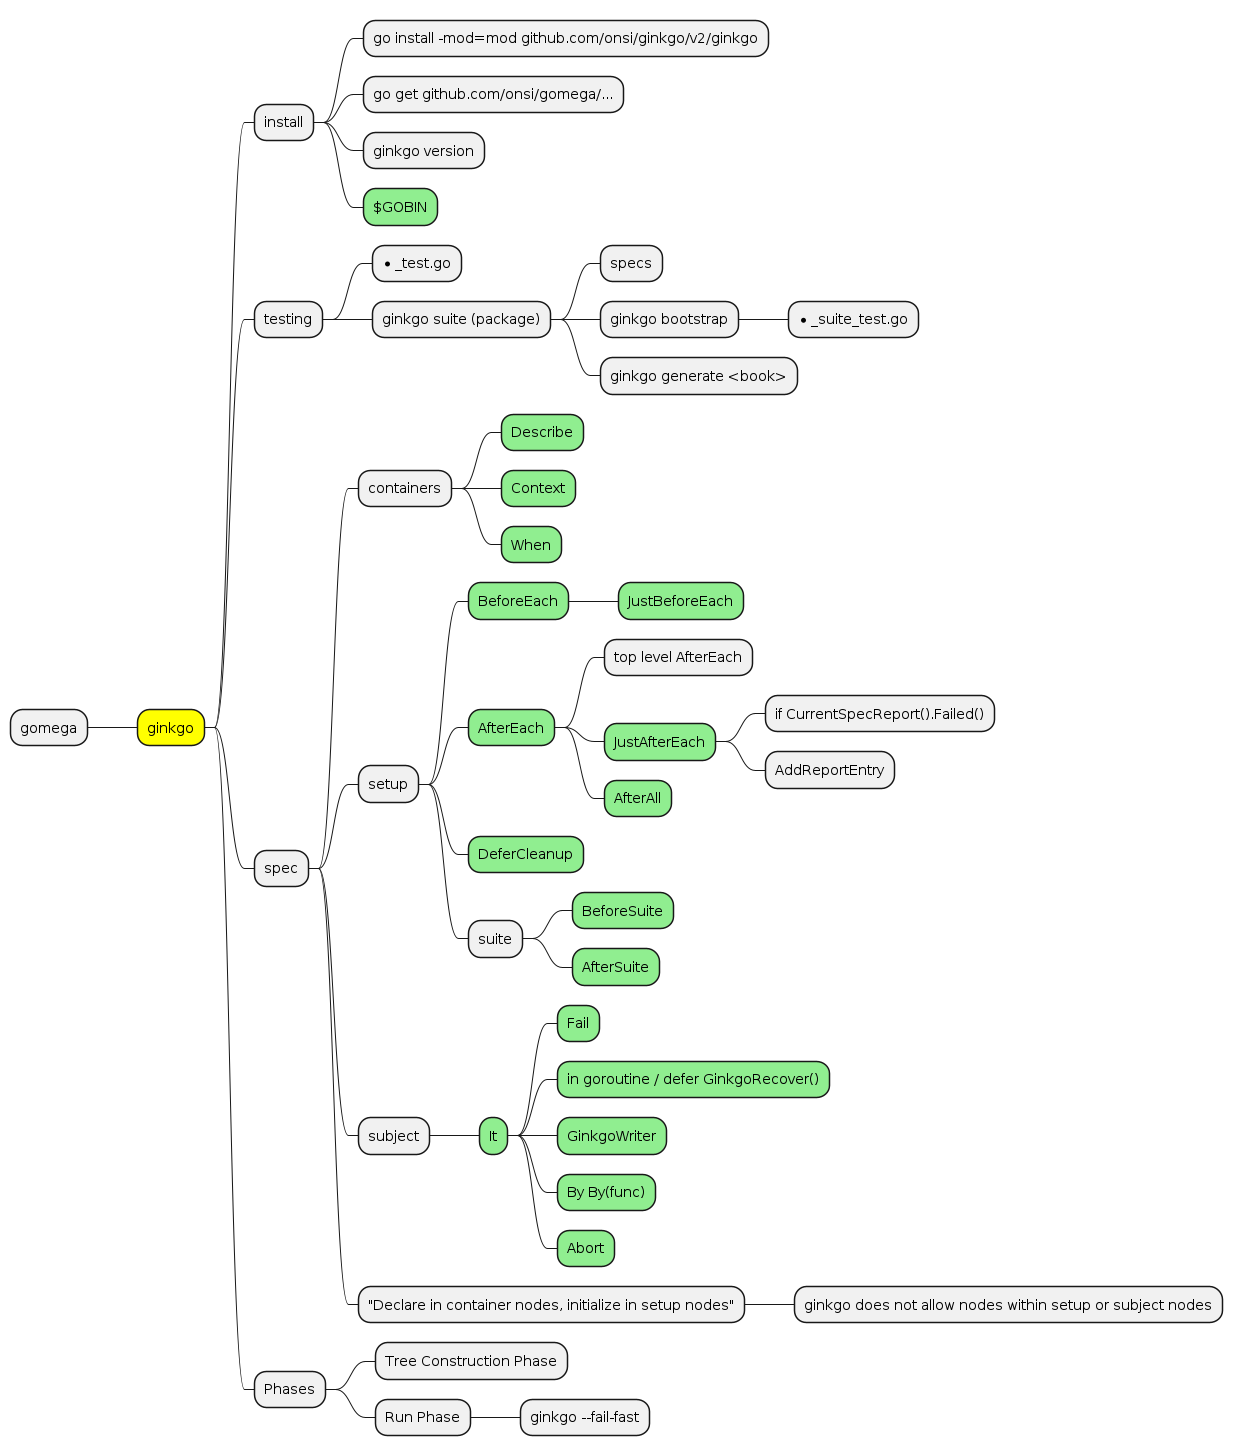
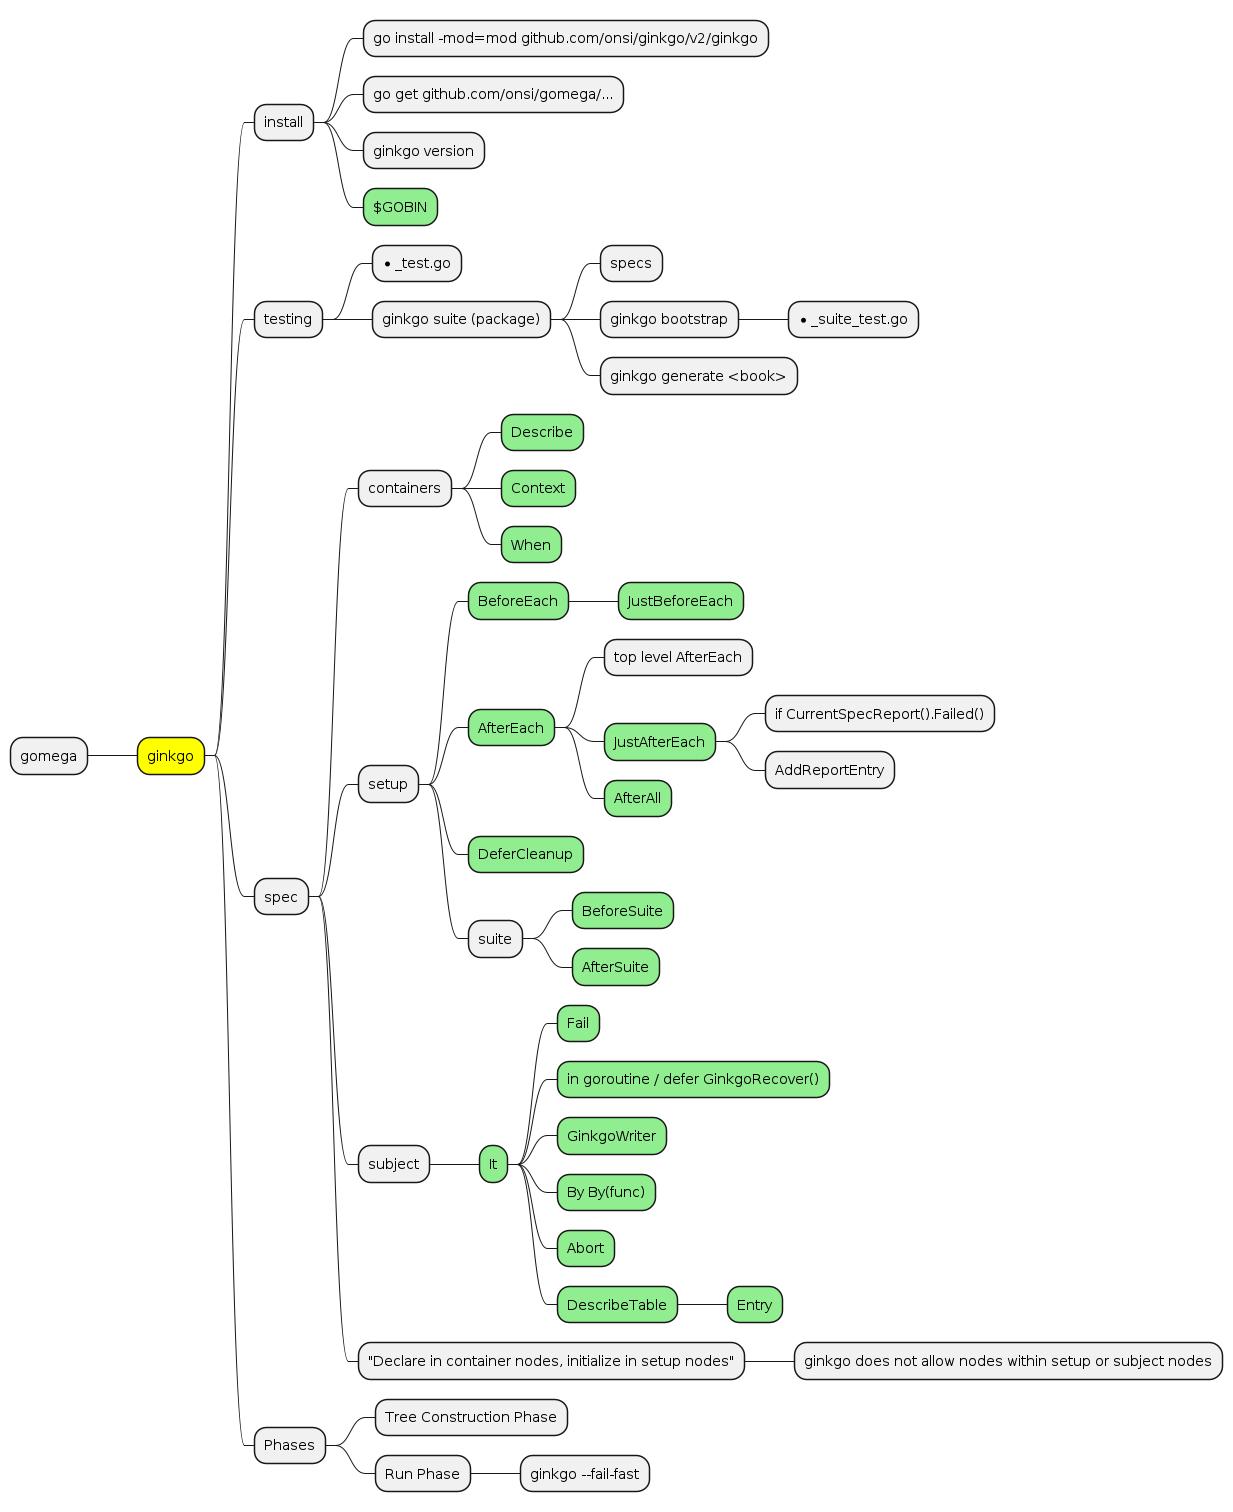
describe table

Changed region(s): [[0.1849, 0.3709, 0.9862, 0.989], [0.1849, 0.0, 0.7397, 0.4327], [0.2774, 0.7418, 0.339, 0.8036]]

diff --git a/books/book_test.go b/books/book_test.go
@@ -19,54 +19,21 @@ var _ = Describe("Books", func() {
 		Expect(book.IsValid()).To(BeTrue())
 	})
 
-	Describe("Extracting the author's first and last name", func() {
-		Context("When the author has both names", func() {
-			It("can extract the author's last name", func() {
-				Expect(book.AuthorLastName()).To(Equal("Hugo"))
-			})
-
-			It("can extract the author's first name", func() {
-				Expect(book.AuthorFirstName()).To(Equal("Victor"))
-			})
-		})
-
-		Context("When the author only has one name", func() {
-			BeforeEach(func() {
-				book.Author = "Hugo"
-			})
-
-			It("interprets the single author name as a last name", func() {
-				Expect(book.AuthorLastName()).To(Equal("Hugo"))
-			})
-
-			It("returns empty for the first name", func() {
-				Expect(book.AuthorFirstName()).To(BeZero())
-			})
-		})
-
-		Context("When the author has a middle name", func() {
-			BeforeEach(func() {
-				book.Author = "Victor Marie Hugo"
-			})
-
-			It("can extract the author's last name", func() {
-				Expect(book.AuthorLastName()).To(Equal("Hugo"))
-			})
-
-			It("can extract the author's first name", func() {
-				Expect(book.AuthorFirstName()).To(Equal("Victor"))
-			})
-		})
-
-		Context("When the author has no name", func() {
-			It("should not be a valid book and returns empty for first and last name", func() {
-				book.Author = ""
-				Expect(book.IsValid()).To(BeFalse())
-				Expect(book.AuthorLastName()).To(BeZero())
-				Expect(book.AuthorFirstName()).To(BeZero())
-			})
-		})
-	})
+	DescribeTable("Extracting the author's first and last name",
+		func(author string, isValid bool, firstName string, lastName string) {
+			book := &books.Book{
+				Title:  "My Book",
+				Author: author,
+				Pages:  10,
+			}
+			Expect(book.IsValid()).To(Equal(isValid))
+			Expect(book.AuthorFirstName()).To(Equal(firstName))
+			Expect(book.AuthorLastName()).To(Equal(lastName))
+		},
+		Entry("When the author has both names", "Victor Hugo", true, "Victor", "Hugo"),
+		Entry("When the author only has one name", "Hugo", true, "", "Hugo"),
+		Entry("When the author has a middle name", "Victor Marie Hugo", true, "Victor", "Hugo"),
+		Entry("When the author has no name", "", false, "", ""))
 
 	Describe("JSON encoding and decoding", func() {
 		It("survives the round trip", func() {
